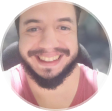
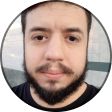
Final Release

diff --git a/index.js b/index.js
@@ -1,18 +1,18 @@
 let profilePicture = document.querySelector('.profile img');
-console.log(profilePicture);
+const html = document.querySelector('.light');
 const buttonClick = document.querySelector(".switch button");
 let switchButton = true
-buttonClick.addEventListener("click", function(){
-if (switchButton === true) {
-    document.querySelector("html").classList.add('light');
-    switchButton = false;
-    document.querySelector('.profile img').src = "assets/avatar.png"
-    console.log(switchButton)
-} else {
-    document.querySelector("html").classList.remove('light');
-    document.querySelector('.profile img').src = "assets/avatar.png"
-    switchButton = true
-    console.log(switchButton)
-}
+
+buttonClick.addEventListener("click", function () {
+    html.classList.toggle('light')
+    
+    if (switchButton === true) {
+        switchButton = false;
+        profilePicture.setAttribute("src", 'assets/avatar.png');
+    } else {
+        profilePicture.setAttribute("src", 'assets/avatar-light.png');
+        switchButton = true;
+
+    }
 
 })

diff --git a/index.html b/index.html
@@ -1,5 +1,5 @@
 <!DOCTYPE html>
-<html lang="pt-br">
+<html class="light" lang="pt-br">
   <head>
     <link rel="preconnect" href="https://fonts.googleapis.com" />
     <link rel="preconnect" href="https://fonts.gstatic.com" crossorigin />
@@ -16,7 +16,7 @@
   <body>
     <div id="container">
       <div class="profile">
-        <img src="assets/avatar.png" alt="" />
+        <img src="assets/avatar-light.png" alt="" />
         <p>@lucaslunarj</p>
       </div>
       <div class="switch">
